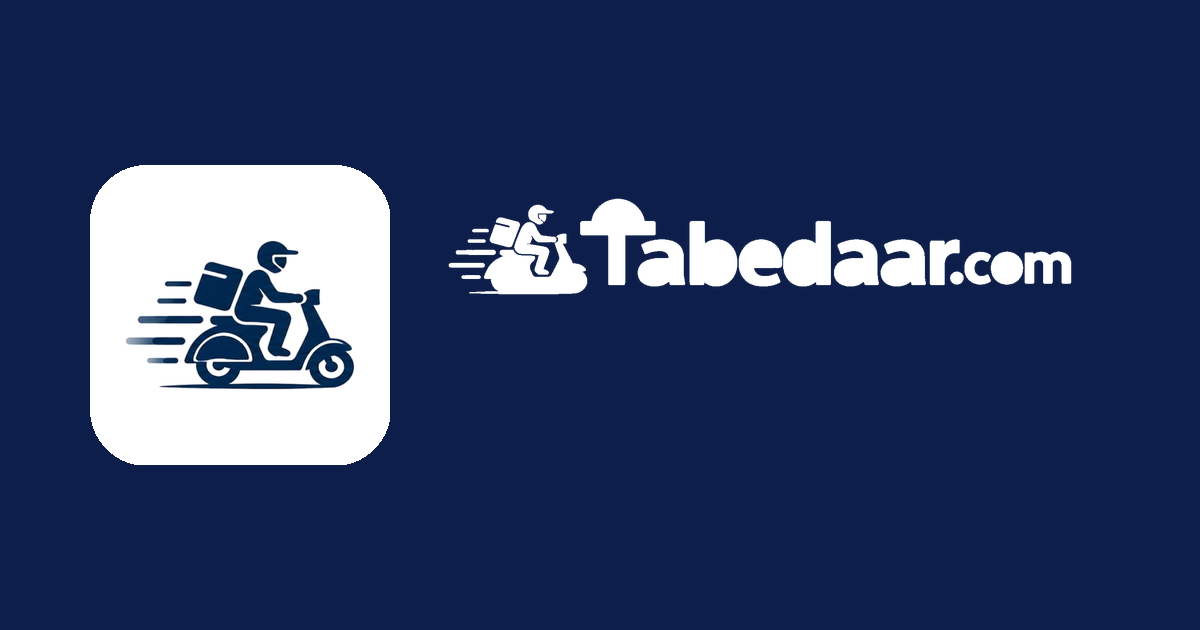
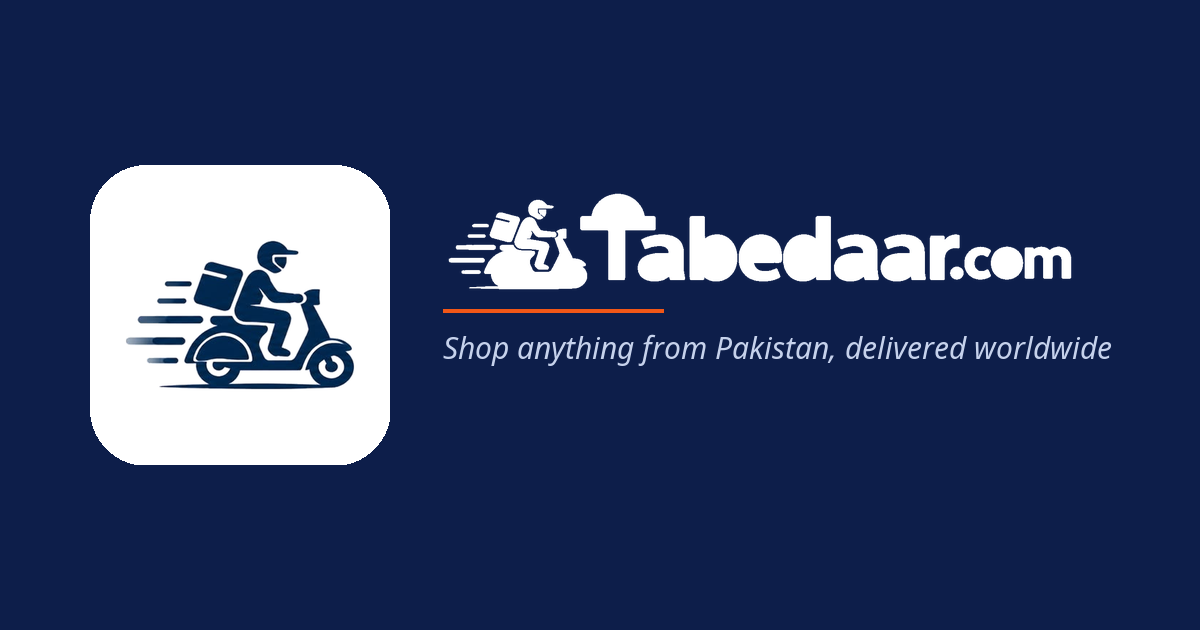
Changes

Changed region(s): [[0.37, 0.3016, 0.8942, 0.5127], [0.37, 0.5429, 0.925, 0.573]]

diff --git a/README.md b/README.md
@@ -1,73 +1,72 @@
-# Welcome to your Lovable project
+# Tabedaar.com
 
-## Project info
+Your personal shopper in Pakistan. Tabedaar sources anything from fashion, food, gifts to groceries in Lahore and delivers it to your loved ones anywhere in the world.
 
-**URL**: https://lovable.dev/projects/dc852880-8d13-4e6b-95c8-cce4660ffa8d
+**Live site:** https://tabedaar.com
+**Support & replies:** contact@tabedaar.com
+**Office:** IP Building, Gulberg, Lahore, Pakistan
+**Hours:** 9:00 AM – 6:00 PM PKT
 
-## How can I edit this code?
+## Who uses the app
 
-There are several ways of editing your application.
+| Role | What they do |
+| --- | --- |
+| Customer | Place orders item by item, upload payment proof, pay any remaining balance, track delivery |
+| Manager | Review requested items, verify payments, record shopping expenses with receipts, assign riders |
+| Rider | Collect items with photo proof, capture the delivery payment screenshot, confirm delivery |
+| Admin | Manage staff accounts and roles, bank details, reporting exports, and the WhatsApp inbox |
 
-**Use Lovable**
+## Order lifecycle
 
-Simply visit the [Lovable Project](https://lovable.dev/projects/dc852880-8d13-4e6b-95c8-cce4660ffa8d) and start prompting.
+Placed → Approved → Confirmed → Picked Up → Delivered
 
-Changes made via Lovable will be committed automatically to this repo.
+Money is settled before a rider can deliver: if the actual shopping expense is higher than the
+verified amount received, the customer pays the remaining balance; if it is lower, the manager
+refunds the difference with proof first. Every amount change is written to an audit trail.
 
-**Use your preferred IDE**
+Customers receive email (from contact@tabedaar.com), WhatsApp, in-app and push notifications at
+each stage.
 
-If you want to work locally using your own IDE, you can clone this repo and push changes. Pushed changes will also be reflected in Lovable.
+## Stack
 
-The only requirement is having Node.js & npm installed - [install with nvm](https://github.com/nvm-sh/nvm#installing-and-updating)
+- React 18, TypeScript, Vite
+- Tailwind CSS with shadcn/ui components
+- Managed Postgres backend: database with row-level security, auth, file storage, edge functions
+- Capacitor for the Android and iPhone apps
 
-Follow these steps:
+## Getting started
 
-```sh
-# Step 1: Clone the repository using the project's Git URL.
-git clone <YOUR_GIT_URL>
-
-# Step 2: Navigate to the project directory.
-cd <YOUR_PROJECT_NAME>
-
-# Step 3: Install the necessary dependencies.
-npm i
-
-# Step 4: Start the development server with auto-reloading and an instant preview.
+```bash
+npm install
 npm run dev
 ```
 
-**Edit a file directly in GitHub**
+## Scripts
 
-- Navigate to the desired file(s).
-- Click the "Edit" button (pencil icon) at the top right of the file view.
-- Make your changes and commit the changes.
+| Command | Purpose |
+| --- | --- |
+| `npm run dev` | Start the development server |
+| `npm run build` | Production build into `dist/` |
+| `npm run build:dev` | Development-mode build |
+| `npm run preview` | Serve the production build locally |
+| `npm run lint` | ESLint over the source |
+| `npm run test:attachments` | Storage-path tests |
+| `npm run capacitor:sync:before` | Regenerate native photo-permission settings before a Capacitor sync |
 
-**Use GitHub Codespaces**
+## Native apps
 
-- Navigate to the main page of your repository.
-- Click on the "Code" button (green button) near the top right.
-- Select the "Codespaces" tab.
-- Click on "New codespace" to launch a new Codespace environment.
-- Edit files directly within the Codespace and commit and push your changes once you're done.
+The Android and iPhone shells live in `android/` and `ios/`.
 
-## What technologies are used for this project?
+```bash
+npm run build
+npx cap sync android   # or: npx cap sync ios
+npx cap open android   # Android Studio
+npx cap open ios       # Xcode (macOS only)
+```
 
-This project is built with:
+## Deploying
 
-- Vite
-- TypeScript
-- React
-- shadcn-ui
-- Tailwind CSS
-
-## How can I deploy this project?
-
-Simply open [Lovable](https://lovable.dev/projects/dc852880-8d13-4e6b-95c8-cce4660ffa8d) and click on Share -> Publish.
-
-## Can I connect a custom domain to my Lovable project?
-
-Yes, you can!
-
-To connect a domain, navigate to Project > Settings > Domains and click Connect Domain.
-
-Read more here: [Setting up a custom domain](https://docs.lovable.dev/features/custom-domain#custom-domain)
+- **Web:** run `npm run build` and upload the contents of `dist/` to the cPanel host. `.htaccess`
+  handles single-page routing. The GoDaddy A records point at the hosting IPs.
+- **Android:** build a signed AAB and upload it through Google Play Console.
+- **iPhone:** archive in Xcode and upload through App Store Connect.
